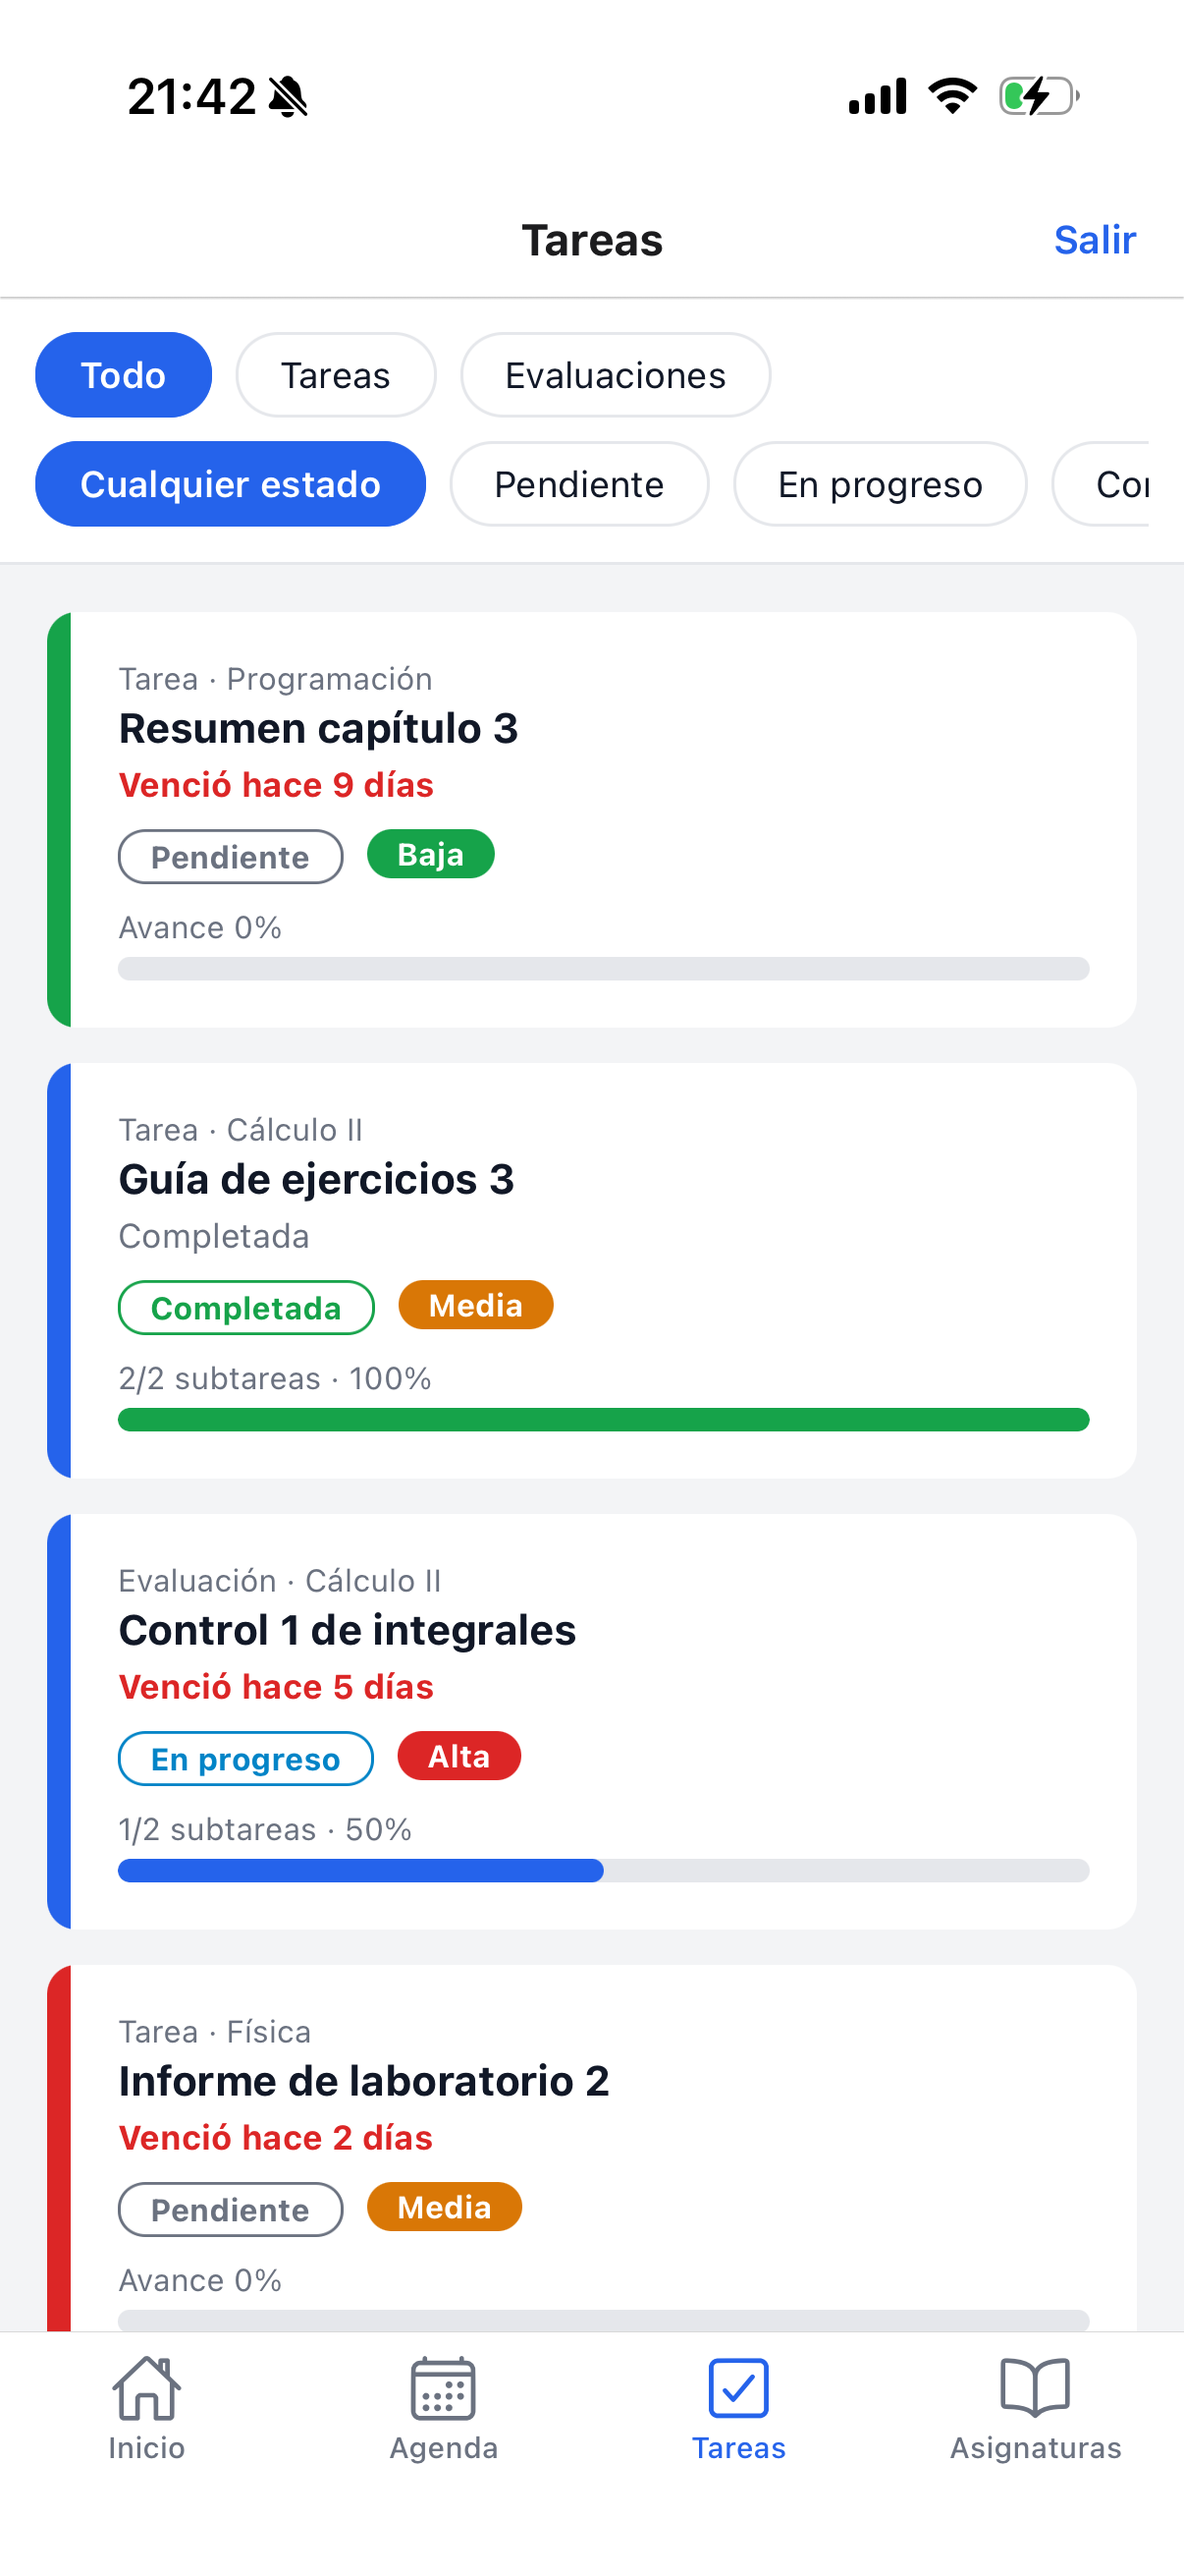
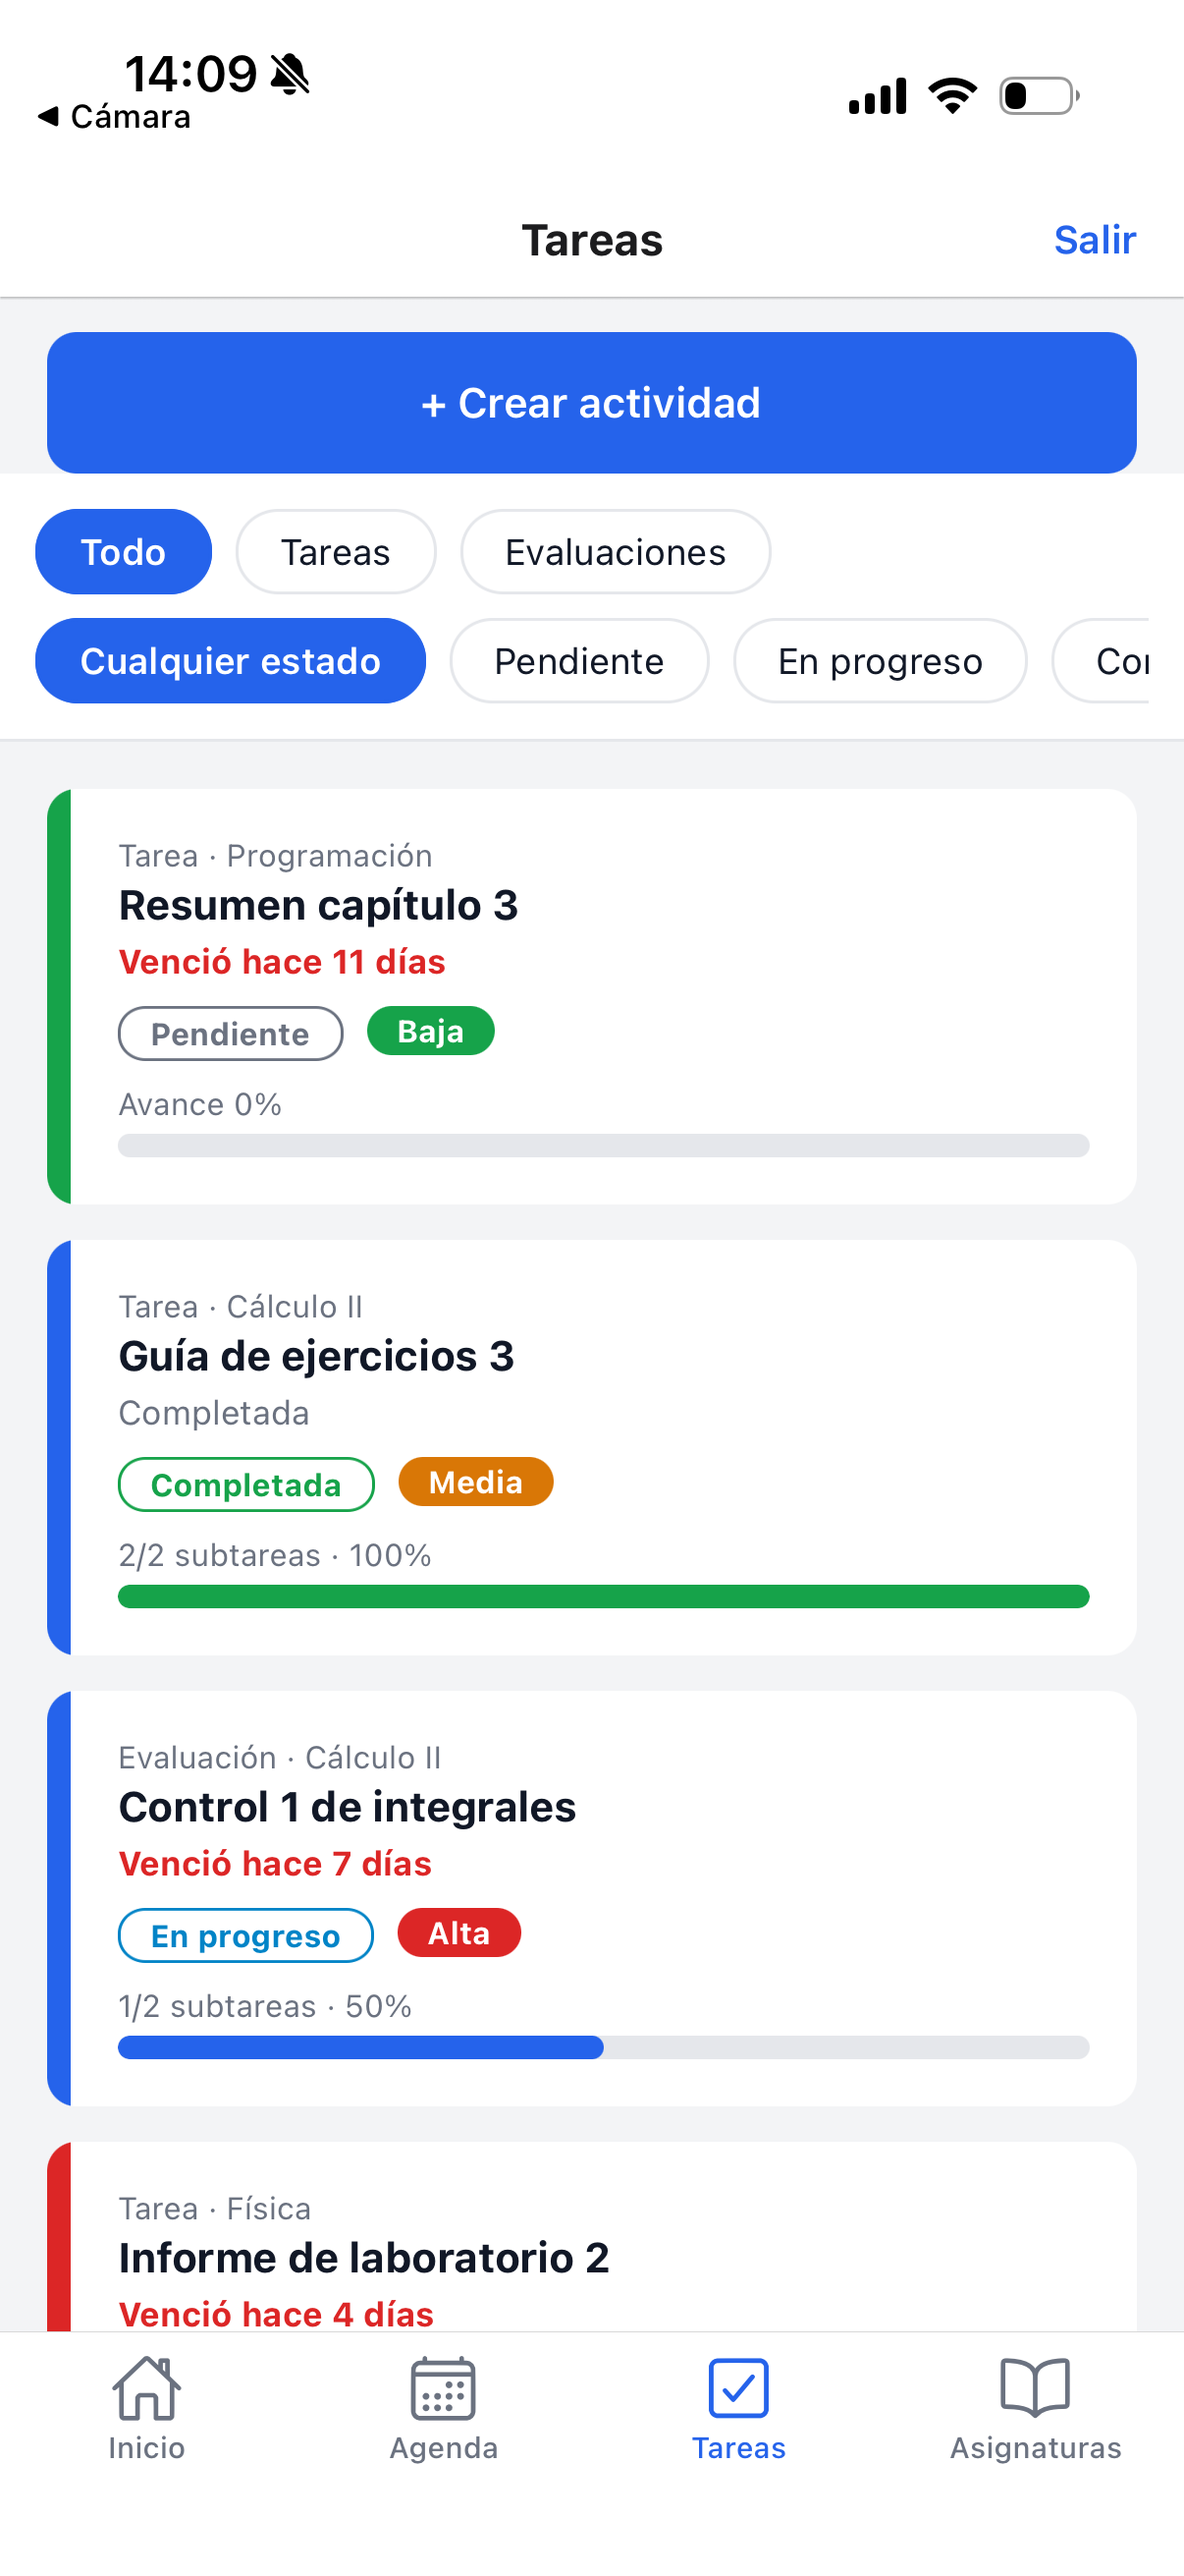
flujos y endpoints de creación de asignaturas y actividades

diff --git a/mobile/docs/FLUJOS.md b/mobile/docs/FLUJOS.md
@@ -7,9 +7,11 @@ Las capturas están en `docs/capturas/`.
 | Inicio de sesión | Validación de correo y contraseña, error del servidor y persistencia de la sesión | `01-login.png` |
 | Inicio | Contadores por estado, actividades vencidas, próximas evaluaciones y tareas de la semana | `02-inicio.png` |
 | Agenda | Actividades agrupadas por día con estado; filtro "Por hacer / Todas" | `03-agenda.png` |
-| Tareas | Lista con filtros por tipo y estado, prioridad y avance | `04-tareas.png` |
+| Tareas | Lista con filtros por tipo y estado, prioridad y avance; botón para crear una actividad | `04-tareas.png` |
 | Detalle de tarea | Cambio de estado (con confirmación al completar) y marcado de subtareas con barra de avance | `05-detalle-tarea.png` |
-| Asignaturas | Lista con cantidad de actividades por hacer y detalle con sus tareas y evaluaciones | `06-asignaturas.png` |
+| Asignaturas | Lista con cantidad de actividades por hacer y detalle con sus tareas y evaluaciones; botón para crear una asignatura | `06-asignaturas.png` |
+| Crear asignatura | Formulario con nombre, profesor, período y color | `09-crear-asignatura.png` |
+| Crear actividad | Formulario con título, descripción, fecha y hora límite, asignatura, tipo y prioridad | `10-crear-actividad.png` |
 | Persistencia compartida | Cambio de estado realizado desde el móvil y reflejado en la aplicación web | `07-web-antes.png`, `07-movil-durante.png`, `07-web-despues.png` |
 | Error de autenticación | Mensaje mostrado al intentar iniciar sesión con credenciales incorrectas | `08-error-login.png` |
 
@@ -38,6 +40,12 @@ Las siguientes capturas evidencian la consistencia de los datos entre ambos clie
 | Tareas | Detalle de tarea | Asignaturas |
 |---|---|---|
 | ![Tareas](capturas/04-tareas.png) | ![Detalle de tarea](capturas/05-detalle-tarea.png) | ![Asignaturas](capturas/06-asignaturas.png) |
+
+### Creación desde el móvil
+
+| Crear asignatura | Crear actividad |
+|---|---|
+| ![Crear asignatura](capturas/09-crear-asignatura.png) | ![Crear actividad](capturas/10-crear-actividad.png) |
 
 ### Persistencia compartida
 

diff --git a/mobile/docs/ENDPOINTS.md b/mobile/docs/ENDPOINTS.md
@@ -11,6 +11,8 @@ Código: `mobile/src/services/`.
 | GET | `/asignaturas/:id` | `asignaturasService.js` | Detalle de una asignatura | Detalle de asignatura |
 | GET | `/tareas` | `tareasService.js` | Listar tareas y evaluaciones (campo `tipo`) | Inicio, Agenda, Tareas, Asignaturas |
 | GET | `/tareas/:id` | `tareasService.js` | Detalle de una tarea o evaluación | Detalle de tarea |
+| POST | `/asignaturas` | `asignaturasService.js` | Crear una asignatura | Nueva asignatura |
+| POST | `/tareas` | `tareasService.js` | Crear una tarea o evaluación | Nueva actividad |
 | PUT | `/tareas/:id` con `{ estado }` | `tareasService.js` | Actualizar el estado | Detalle de tarea |
 | PUT | `/tareas/:id` con `{ subtareas }` | `tareasService.js` | Actualizar el avance (subtareas hechas) | Detalle de tarea |
 
